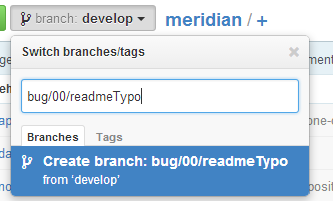
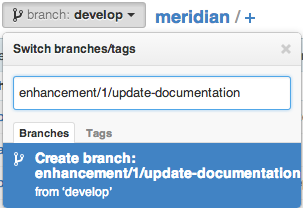
add corretions based on review of contributing doc

diff --git a/contributing.md b/contributing.md
@@ -15,19 +15,19 @@ Government agencies are encouraged to submit contributions as pull requests on G
 * Please check to make sure that there aren't existing pull requests attempting to address the issue mentioned. We also recommend checking for related issues on the tracker, as a team member may be working on the issue in a branch or fork
 * Non-trivial changes should be discussed in an issue first
 * All branches should address an open issue found on the [tracker](https://github.com/ozone-development/meridian/issues?state=open)
-* Always create your branch from the lates develop branch, not master or any other branch. To do this, switch to the develop branch before creating the branch and github handles the rest. [Example](./contributing.md#branch-creation-example)
-* All branches must follow this naming convention to be even considered: **(type of issue)/(issue number)/(short description)**, all words starting with a lower case character. [Example](./contributing.md#branch-creation-example)
+* Always create your branch from the latest develop branch, not master or any other branch. To do this, switch to the develop branch before creating the branch and github handles the rest.
+* Branches should follow this naming convention: {*type of issue*}/{*issue number*}/{*short description*} => enhancement/1/update-documentation; all lower case character and hyphens where spaces are needed.
 	* Accepted type of issues: 
 		* bug
 		* enhancement
-		* techDebt
-		* newFeature
+		* tech-debt
+		* feature
 * Follow the [Meridian JavaScript Style Guide](./app/docs/javascript-styleguide#meridian-javascript-style-guide-forked-from-airbnb) closely
 * Lint the code
 * To create the pull request, access the [branches](https://github.com/ozone-development/meridian/branches) page and click on `New pull request` on the desired branch.
-* Before clicking Create pull request, make sure that: [(Example)](./contributing.md#pull-request-example)
+* Before clicking Create pull request, make sure that:
 	* Title is the branch name to be merged. (It may have the name of your last commit)
-	* You are asking to merge branch into develop. Any other location will be denied
+	* You are asking to merge branch into develop.
 
 
 ## Issue submission
@@ -35,7 +35,7 @@ Government agencies are encouraged to submit contributions as pull requests on G
 In order for us to help you please check that you've completed the following steps:
 * Made sure you're on the latest version.
 * Used the search feature to ensure that the issue (enhancement, bug, etc.) hasn't been reported before.
-* Included as much information about the issue as possible, including any output you've received, what OS and version you're on, etc.  
+* Included as much information about the issue as possible, including any output you've received, what OS and version you're on, screenshots, etc.  
 * Selected the `0 - Backlog` label, the type of issue label (enhancement, bug, etc.) and any other label that best describes the issue
 
 [Submit your issue](https://github.com/ozone-development/meridian/issues/new)
@@ -43,17 +43,7 @@ In order for us to help you please check that you've completed the following ste
 
 ## Style Guide
 
-The [Meridian JavaScript Style Guide](./app/docs/javascript-styleguide#meridian-javascript-style-guide-forked-from-airbnb) is still under review by our developers.
+The [Meridian JavaScript Style Guide](./app/docs/javascript-styleguide#meridian-javascript-style-guide-forked-from-airbnb) is still under review by our developers and may continue to evolve, as needed.
 
-Please ensure any pull requests follow this closely. If you notice existing code which doesn't follow these practices, feel free to shout and we will address this.
-
-
-## Examples
-
-##### Branch creation example:
-![alt text](./app/docs/meridian/images/examples/branchFromDevelop.png "Branch creation example")
----
-##### Pull request example:
-![alt text](./app/docs/meridian/images/examples/pullRequest.png "Pull request example")
----
+Please ensure any pull requests follow this closely. If you are working in a file and notice existing code which doesn't follow these practices, you can make the relevant updates. Please avoid making style updates outside of the file(s) you are working on.
 
